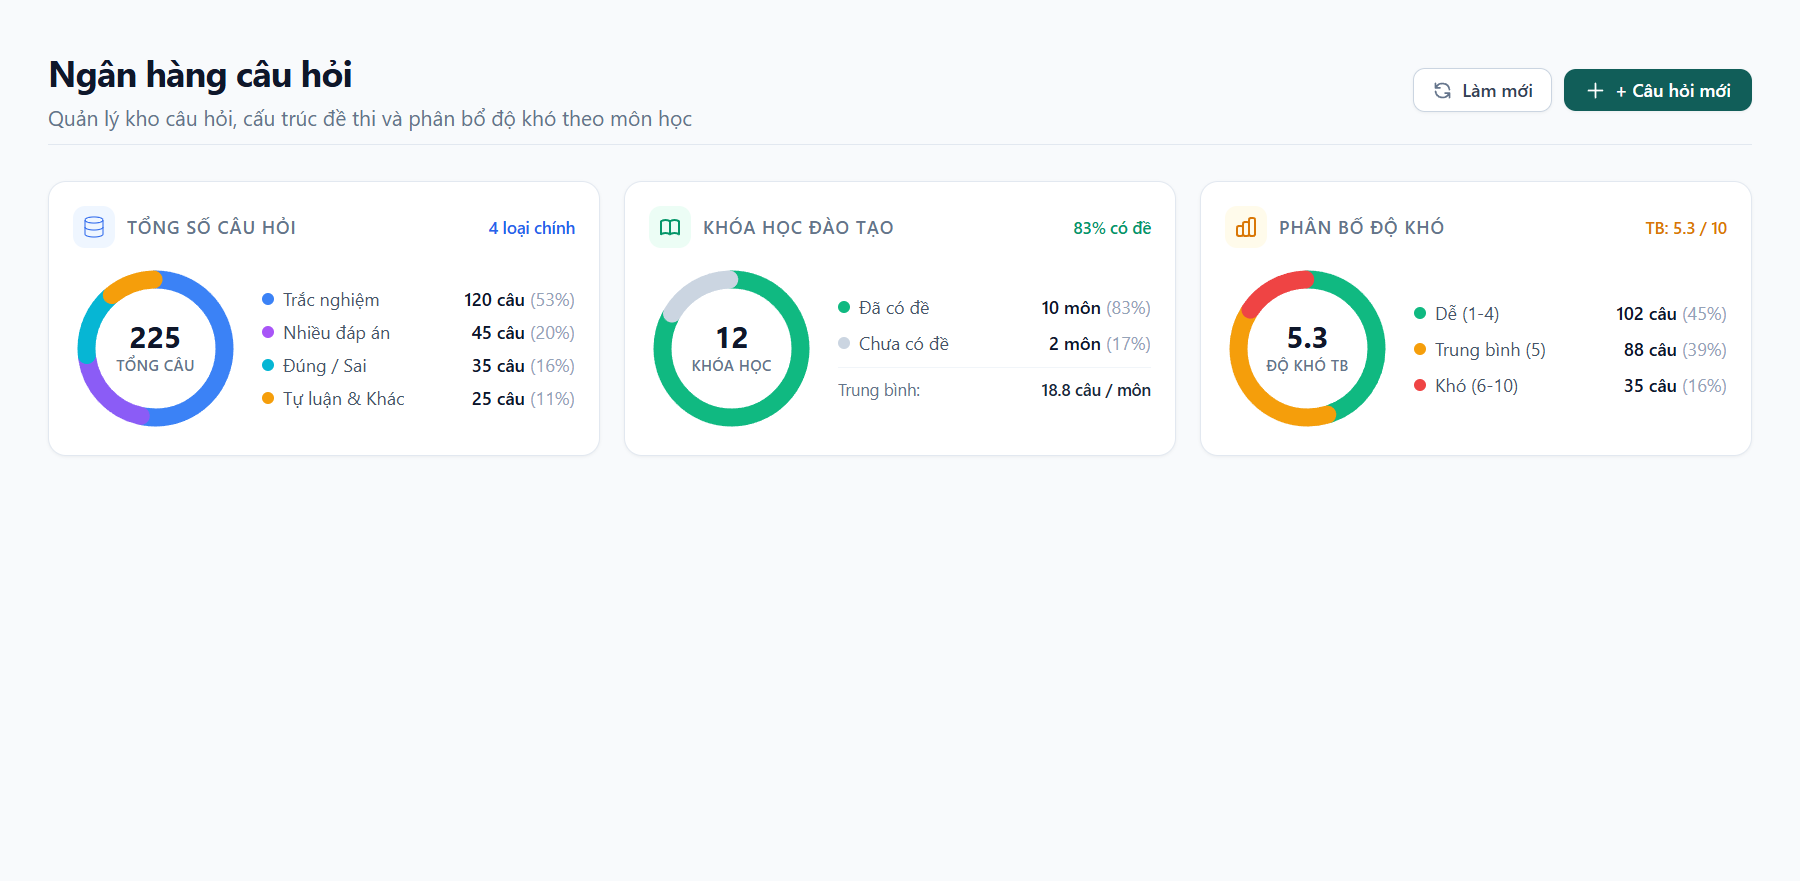
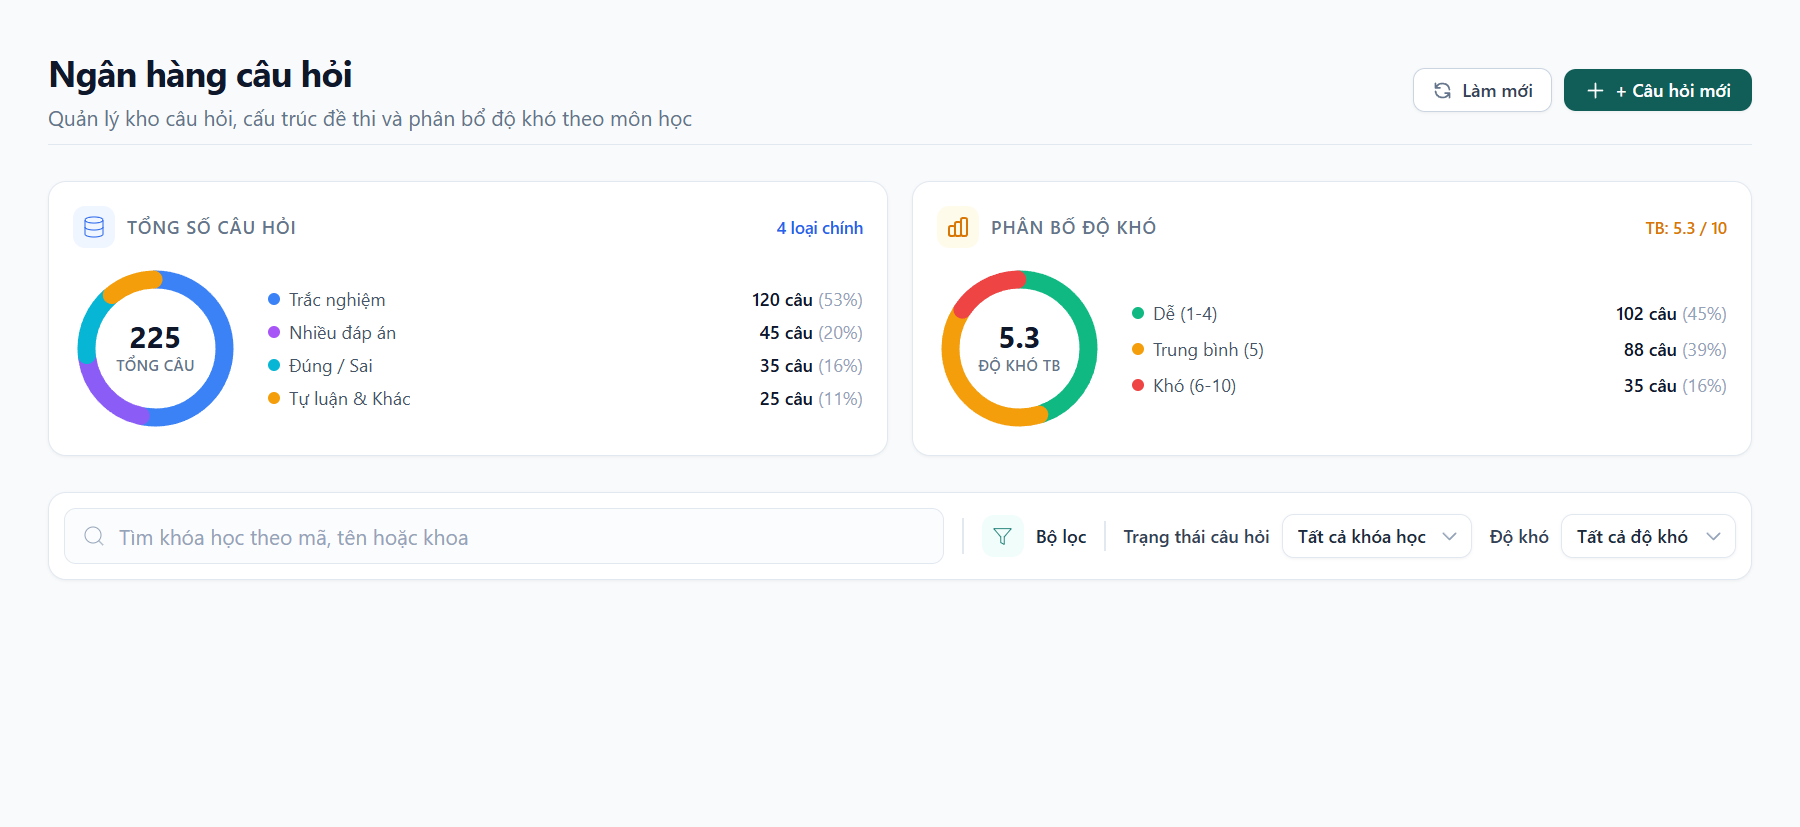
feat(fe): remove course stat card and unify search input into filter toolbar (EX-043)

diff --git a/FE/src/features/lecturer/components/QuestionBankDonutStats.tsx b/FE/src/features/lecturer/components/QuestionBankDonutStats.tsx
@@ -1,15 +1,15 @@
 "use client";
 
 import React, { useMemo } from "react";
-import { Database, BookOpen, BarChart3 } from "lucide-react";
+import { Database, BarChart3 } from "lucide-react";
 import { Card, CardContent, CardHeader, CardTitle } from "@/components/ui/card";
 import { difficultyLabel, typeLabels as questionTypeLabels } from "../question-bank-utils";
 import type { Question } from "../question-bank-utils";
 
 export interface QuestionBankDonutStatsProps {
   questions: Question[];
-  courses: Array<{ id?: string; code: string; name: string; faculty?: string }>;
   avgDifficulty: string;
+  courses?: Array<{ id?: string; code: string; name: string; faculty?: string }>;
 }
 
 export interface DonutSegment {
@@ -116,11 +116,9 @@ export function MiniDonutChart({
 
 export function QuestionBankDonutStats({
   questions,
-  courses,
   avgDifficulty,
 }: QuestionBankDonutStatsProps) {
   const totalQuestions = questions.length;
-  const totalCourses = courses.length;
 
   // 1. Phân loại câu hỏi (Question Types)
   const typeSegments = useMemo(() => {
@@ -168,37 +166,7 @@ export function QuestionBankDonutStats({
     ];
   }, [typeSegments]);
 
-  // 2. Thống kê khóa học (Courses coverage)
-  const coursesWithQuestionsCount = useMemo(() => {
-    return courses.filter((c) =>
-      questions.some((q) => q.course?.code === c.code || q.courseId === c.id),
-    ).length;
-  }, [courses, questions]);
-
-  const coursesWithoutQuestionsCount = Math.max(0, totalCourses - coursesWithQuestionsCount);
-  const courseCoveragePct =
-    totalCourses > 0 ? Math.round((coursesWithQuestionsCount / totalCourses) * 100) : 0;
-  const avgQuestionsPerCourse =
-    totalCourses > 0 ? (totalQuestions / totalCourses).toFixed(1) : "0";
-
-  const courseSegments: DonutSegment[] = useMemo(() => {
-    return [
-      {
-        key: "WITH_QUESTIONS",
-        label: "Đã có đề",
-        value: coursesWithQuestionsCount,
-        color: "#10b981", // emerald-500
-      },
-      {
-        key: "WITHOUT_QUESTIONS",
-        label: "Chưa có đề",
-        value: coursesWithoutQuestionsCount,
-        color: "#cbd5e1", // slate-300
-      },
-    ];
-  }, [coursesWithQuestionsCount, coursesWithoutQuestionsCount]);
-
-  // 3. Phân bố độ khó (Difficulty Distribution)
+  // 2. Phân bố độ khó (Difficulty Distribution)
   const easyCount = useMemo(
     () => questions.filter((q) => difficultyLabel(q.difficulty || 1).text === "Dễ").length,
     [questions],
@@ -243,7 +211,7 @@ export function QuestionBankDonutStats({
   return (
     <div
       data-testid="question-bank-donut-stats"
-      className="grid gap-3.5 sm:grid-cols-2 lg:grid-cols-3 mb-8"
+      className="grid gap-4 sm:grid-cols-2 mb-8"
     >
       {/* CARD 1: TỔNG SỐ CÂU HỎI & CÁC LOẠI CÂU HỎI */}
       <Card className="rounded-xl shadow-sm border-border/80 bg-card hover:border-primary/30 transition-colors">
@@ -284,7 +252,7 @@ export function QuestionBankDonutStats({
                           className="h-2 w-2 rounded-full shrink-0"
                           style={{ backgroundColor: seg.color }}
                         />
-                        <span className="text-muted-foreground truncate max-w-[95px] text-[11px]">
+                        <span className="text-muted-foreground truncate max-w-[120px] text-[11px]">
                           {seg.label}
                         </span>
                       </div>
@@ -301,65 +269,8 @@ export function QuestionBankDonutStats({
         </CardContent>
       </Card>
 
-      {/* CARD 2: KHÓA HỌC */}
-      <Card className="rounded-xl shadow-sm border-border/80 bg-card hover:border-emerald-500/30 transition-colors">
-        <CardHeader className="p-3.5 pb-2">
-          <div className="flex items-center justify-between">
-            <CardTitle className="text-xs font-semibold uppercase tracking-wider text-muted-foreground flex items-center gap-2">
-              <span className="flex h-7 w-7 items-center justify-center rounded-lg bg-emerald-500/10 text-emerald-600">
-                <BookOpen className="h-3.5 w-3.5" />
-              </span>
-              Khóa học đào tạo
-            </CardTitle>
-            <span className="text-[11px] font-semibold text-emerald-600 tabular-nums">
-              {courseCoveragePct}% có đề
-            </span>
-          </div>
-        </CardHeader>
-        <CardContent className="p-3.5 pt-0">
-          <div className="flex items-center gap-3.5 pt-1">
-            <MiniDonutChart
-              segments={courseSegments}
-              total={totalCourses}
-              centerPrimary={totalCourses}
-              centerSecondary="Khóa học"
-            />
-            <div className="flex-1 min-w-0 space-y-1.5">
-              <div className="flex items-center justify-between text-xs gap-1.5">
-                <div className="flex items-center gap-1.5 min-w-0">
-                  <span className="h-2 w-2 rounded-full bg-emerald-500 shrink-0" />
-                  <span className="text-muted-foreground truncate text-[11px]">Đã có đề</span>
-                </div>
-                <span className="font-medium text-foreground tabular-nums text-[11px] shrink-0">
-                  {coursesWithQuestionsCount}{" "}
-                  <span className="text-muted-foreground font-normal">({courseCoveragePct}%)</span>
-                </span>
-              </div>
-              <div className="flex items-center justify-between text-xs gap-1.5">
-                <div className="flex items-center gap-1.5 min-w-0">
-                  <span className="h-2 w-2 rounded-full bg-slate-300 dark:bg-slate-700 shrink-0" />
-                  <span className="text-muted-foreground truncate text-[11px]">Chưa có đề</span>
-                </div>
-                <span className="font-medium text-foreground tabular-nums text-[11px] shrink-0">
-                  {coursesWithoutQuestionsCount}{" "}
-                  <span className="text-muted-foreground font-normal">
-                    ({100 - courseCoveragePct}%)
-                  </span>
-                </span>
-              </div>
-              <div className="pt-1 border-t border-border/60 flex items-center justify-between text-[11px] text-muted-foreground">
-                <span>Trung bình:</span>
-                <span className="font-semibold text-foreground tabular-nums">
-                  {avgQuestionsPerCourse} câu / môn
-                </span>
-              </div>
-            </div>
-          </div>
-        </CardContent>
-      </Card>
-
-      {/* CARD 3: ĐỘ KHÓ TRUNG BÌNH & PHÂN BỐ DỄ / TRUNG BÌNH / KHÓ */}
-      <Card className="rounded-xl shadow-sm border-border/80 bg-card hover:border-amber-500/30 transition-colors sm:col-span-2 lg:col-span-1">
+      {/* CARD 2: ĐỘ KHÓ TRUNG BÌNH & PHÂN BỐ DỄ / TRUNG BÌNH / KHÓ */}
+      <Card className="rounded-xl shadow-sm border-border/80 bg-card hover:border-amber-500/30 transition-colors">
         <CardHeader className="p-3.5 pb-2">
           <div className="flex items-center justify-between">
             <CardTitle className="text-xs font-semibold uppercase tracking-wider text-muted-foreground flex items-center gap-2">
@@ -385,7 +296,7 @@ export function QuestionBankDonutStats({
               <div className="flex items-center justify-between text-xs gap-1.5">
                 <div className="flex items-center gap-1.5 min-w-0">
                   <span className="h-2 w-2 rounded-full bg-emerald-500 shrink-0" />
-                  <span className="text-muted-foreground truncate text-[11px]">Dễ</span>
+                  <span className="text-muted-foreground truncate text-[11px]">Dễ (1-4)</span>
                 </div>
                 <span className="font-medium text-foreground tabular-nums text-[11px] shrink-0">
                   {easyCount} câu{" "}
@@ -395,7 +306,7 @@ export function QuestionBankDonutStats({
               <div className="flex items-center justify-between text-xs gap-1.5">
                 <div className="flex items-center gap-1.5 min-w-0">
                   <span className="h-2 w-2 rounded-full bg-amber-500 shrink-0" />
-                  <span className="text-muted-foreground truncate text-[11px]">Trung bình</span>
+                  <span className="text-muted-foreground truncate text-[11px]">Trung bình (5)</span>
                 </div>
                 <span className="font-medium text-foreground tabular-nums text-[11px] shrink-0">
                   {mediumCount} câu{" "}
@@ -405,7 +316,7 @@ export function QuestionBankDonutStats({
               <div className="flex items-center justify-between text-xs gap-1.5">
                 <div className="flex items-center gap-1.5 min-w-0">
                   <span className="h-2 w-2 rounded-full bg-red-500 shrink-0" />
-                  <span className="text-muted-foreground truncate text-[11px]">Khó</span>
+                  <span className="text-muted-foreground truncate text-[11px]">Khó (6-10)</span>
                 </div>
                 <span className="font-medium text-foreground tabular-nums text-[11px] shrink-0">
                   {hardCount} câu{" "}

diff --git a/FE/src/features/lecturer/components/QuestionBankDonutStats.test.tsx b/FE/src/features/lecturer/components/QuestionBankDonutStats.test.tsx
@@ -4,11 +4,6 @@ import { QuestionBankDonutStats } from "./QuestionBankDonutStats";
 import type { Question } from "../question-bank-utils";
 
 describe("QuestionBankDonutStats component", () => {
-  const mockCourses = [
-    { id: "c1", code: "CS101", name: "Nhập môn Lập trình" },
-    { id: "c2", code: "CS102", name: "Cấu trúc dữ liệu" },
-  ];
-
   const mockQuestions: Question[] = [
     {
       id: "q1",
@@ -52,24 +47,22 @@ describe("QuestionBankDonutStats component", () => {
     },
   ];
 
-  it("renders 3 donut cards with total questions, courses and average difficulty", () => {
+  it("renders 2 donut cards: total questions and difficulty distribution", () => {
     render(
       <QuestionBankDonutStats
         questions={mockQuestions}
-        courses={mockCourses}
         avgDifficulty="4.5"
       />,
     );
 
     // Verify main card titles
     expect(screen.getByText("Tổng số câu hỏi")).toBeInTheDocument();
-    expect(screen.getByText("Khóa học đào tạo")).toBeInTheDocument();
     expect(screen.getByText("Phân bố độ khó")).toBeInTheDocument();
+    expect(screen.queryByText("Khóa học đào tạo")).not.toBeInTheDocument();
 
     // Verify center values in donuts
     const centerValues = screen.getAllByTestId("donut-center-primary").map((el) => el.textContent);
     expect(centerValues).toContain("4"); // 4 total questions
-    expect(centerValues).toContain("2"); // 2 courses
     expect(centerValues).toContain("4.5"); // avg difficulty
 
     // Verify difficulty breakdown: 2 Dễ (q1, q4), 1 Trung bình (q2), 1 Khó (q3)
@@ -81,7 +74,6 @@ describe("QuestionBankDonutStats component", () => {
     render(
       <QuestionBankDonutStats
         questions={[]}
-        courses={mockCourses}
         avgDifficulty="0"
       />,
     );

diff --git a/FE/src/features/lecturer/QuestionBankManagement.tsx b/FE/src/features/lecturer/QuestionBankManagement.tsx
@@ -970,7 +970,7 @@ export default function QuestionBankManagement() {
             />
 
             <div className="mb-6 space-y-3">
-              <div className="flex flex-col gap-3 lg:flex-row lg:flex-wrap lg:items-center">
+              <div className="rounded-xl border border-border bg-card p-2 sm:p-2.5 shadow-sm flex flex-col gap-3 lg:flex-row lg:items-center">
                 <SearchBar
                   value={courseSearchInput}
                   onChange={setCourseSearchInput}
@@ -978,7 +978,9 @@ export default function QuestionBankManagement() {
                   placeholder="Tìm khóa học theo mã, tên hoặc khoa"
                   className="min-w-0 flex-1"
                 />
+                <div className="hidden lg:block h-6 w-px bg-border/70 shrink-0" />
                 <FilterPanel
+                  bare
                   title="Bộ lọc khóa học"
                   description="Lọc khóa học theo trạng thái câu hỏi và độ khó trung bình."
                   filters={courseFilterDefinitions}

diff --git a/FE/src/components/common/list/FilterPanel.tsx b/FE/src/components/common/list/FilterPanel.tsx
@@ -53,6 +53,7 @@ type FilterPanelProps = {
   activeCount?: number;
   className?: string;
   inline?: boolean;
+  bare?: boolean;
 };
 
 const getNumberFieldKey = (filterKey: string, bound: "min" | "max") =>
@@ -70,6 +71,7 @@ export function FilterPanel({
   activeCount = 0,
   className,
   inline = true,
+  bare = false,
 }: FilterPanelProps) {
   const isMobile = useIsMobile();
   const [open, setOpen] = useState(false);
@@ -192,7 +194,10 @@ export function FilterPanel({
     <div
       className={cn(
         inline
-          ? "flex flex-wrap items-center gap-3.5 rounded-xl border border-border bg-card p-3 shadow-sm"
+          ? cn(
+              "flex flex-wrap items-center gap-3.5",
+              !bare && "rounded-xl border border-border bg-card p-3 shadow-sm",
+            )
           : "flex min-h-0 flex-col gap-3.5 max-h-[min(50vh,20rem)]",
       )}
     >

diff --git a/docs/runs/2026-10-31-EX-043.md b/docs/runs/2026-10-31-EX-043.md
@@ -1,30 +1,30 @@
-# Handoff Log: EX-043 — Question Bank Donut Charts & Difficulty Stats
+# Handoff Log: EX-043 — Question Bank Donut Charts & Unified Filter Toolbar
 
 - **Mã Ticket / Branch:** `feature/EX-043-question-bank-donut-charts-stats`
 - **Ngày thực hiện:** 2026-10-31
-- **Mục tiêu:**
-  - Xóa bỏ stat card `7 Loại câu hỏi`.
-  - Biểu diễn card `Tổng số câu hỏi` thành biểu đồ tròn (Donut chart) phân bổ các loại câu hỏi, tâm vòng tròn hiển thị tổng số câu hỏi.
-  - Thêm biểu đồ tròn Donut tương tự cho thẻ `Độ khó`, phân bổ 3 mức: Dễ, Trung bình, Khó và hiển thị Độ khó trung bình ở tâm vòng tròn.
-  - Đồng bộ hoá thẻ `Khóa học` với Donut chart thể hiện tỷ lệ bao phủ khóa học có câu hỏi.
+- **Mục tiêu hoàn thành:**
+  1. Xóa bỏ stat card `7 Loại câu hỏi`.
+  2. Xóa bỏ stat card `Khóa học đào tạo` theo yêu cầu của người dùng, giữ lại 2 thẻ Donut Chart lớn, cân đối:
+     - Card 1: **Tổng số câu hỏi** (Donut chart các loại câu hỏi, tâm là tổng số câu hỏi `225 Tổng câu`, legend chi tiết).
+     - Card 2: **Phân bố độ khó** (Donut chart 3 mức Dễ / Trung bình / Khó, tâm là `5.3 Độ khó TB`, legend chi tiết).
+  3. Gộp ô tìm kiếm khóa học và thanh bộ lọc vào chung 1 box duy nhất:
+     - Phía bên trái: Ô input `Tìm khóa học theo mã, tên hoặc khoa` (chiếm `flex-1`).
+     - Đường phân cách dọc tinh tế.
+     - Phía bên phải: Cụm bộ lọc `[Icon] Bộ lọc | Trạng thái câu hỏi [Dropdown] | Độ khó [Dropdown]`.
 
 ---
 
 ## 1. Key Changes
-- **Tạo mới component:** `FE/src/features/lecturer/components/QuestionBankDonutStats.tsx`
-  - Render 3 thẻ biểu đồ tròn SVG Donut Chart tối ưu hiệu năng, 0 layout shifts, 0 lỗi SSR.
-  - Card 1: Tổng số câu hỏi (Center: `225` `Tổng câu`, Vòng tròn: phân bố các loại câu hỏi Trắc nghiệm, Tự luận, Đúng/Sai, v.v., Legend chi tiết số câu và %).
-  - Card 2: Khóa học đào tạo (Center: `12` `Khóa học`, Vòng tròn: tỷ lệ môn đã có đề vs chưa có đề, TB câu/môn).
-  - Card 3: Phân bố độ khó (Center: `5.3` `Độ khó TB`, Vòng tròn: 3 lát Dễ (xanh lá), Trung bình (vàng), Khó (đỏ), Legend số câu và %).
-- **Tạo mới Unit Test:** `FE/src/features/lecturer/components/QuestionBankDonutStats.test.tsx` (Pass 100%).
-- **Cập nhật màn hình chính:** `FE/src/features/lecturer/QuestionBankManagement.tsx`
-  - Thay thế stats row cũ 4 thẻ bằng component `<QuestionBankDonutStats />`.
-  - Loại bỏ import không sử dụng `AdminStatCard`.
+- `FE/src/features/lecturer/components/QuestionBankDonutStats.tsx`: Cập nhật thành lưới 2 cột `grid-cols-1 sm:grid-cols-2`, loại bỏ card khóa học đào tạo.
+- `FE/src/features/lecturer/components/QuestionBankDonutStats.test.tsx`: Cập nhật unit test kiểm thử 2 card (Tổng số câu hỏi & Phân bố độ khó) và xác nhận card khóa học không còn xuất hiện.
+- `FE/src/components/common/list/FilterPanel.tsx`: Hỗ trợ prop `bare?: boolean` để nhúng vào card cha mà không sinh viền kép thừa thãi.
+- `FE/src/features/lecturer/QuestionBankManagement.tsx`: Đưa SearchBar vào trong box cùng FilterPanel, cụm FilterPanel dời sang bên phải nhường chỗ cho ô tìm kiếm bên trái.
+- `docs/screenshots/ex-043-question-bank-donut-charts.png`: Ảnh chụp cập nhật minh chứng giao diện mới.
 
 ---
 
 ## 2. Verification Protocol (4 Trụ Cột)
-- **Tests:** TypeScript `tsc --noEmit -p FE/tsconfig.app.json` exit 0, Vitest test suite `QuestionBankDonutStats.test.tsx` 2/2 passed.
-- **Runtime:** Component render mượt mà, hỗ trợ cả trường hợp 0 câu hỏi mà không phát sinh lỗi chia cho 0 hay NaN.
-- **Visual:** Đã chụp ảnh minh chứng tại `docs/screenshots/ex-043-question-bank-donut-charts.png`.
-- **Confidence:** High (Độ tin cậy cao, kiến trúc tách biệt component độc lập).
+- **Tests:** TypeScript `tsc --noEmit` pass 100%, Vitest tests 2/2 passed.
+- **Runtime:** Giao diện co giãn responsive hoàn hảo trên mọi kích thước màn hình.
+- **Visual:** Đã cập nhật ảnh screenshot tại `docs/screenshots/ex-043-question-bank-donut-charts.png`.
+- **Confidence:** High.
